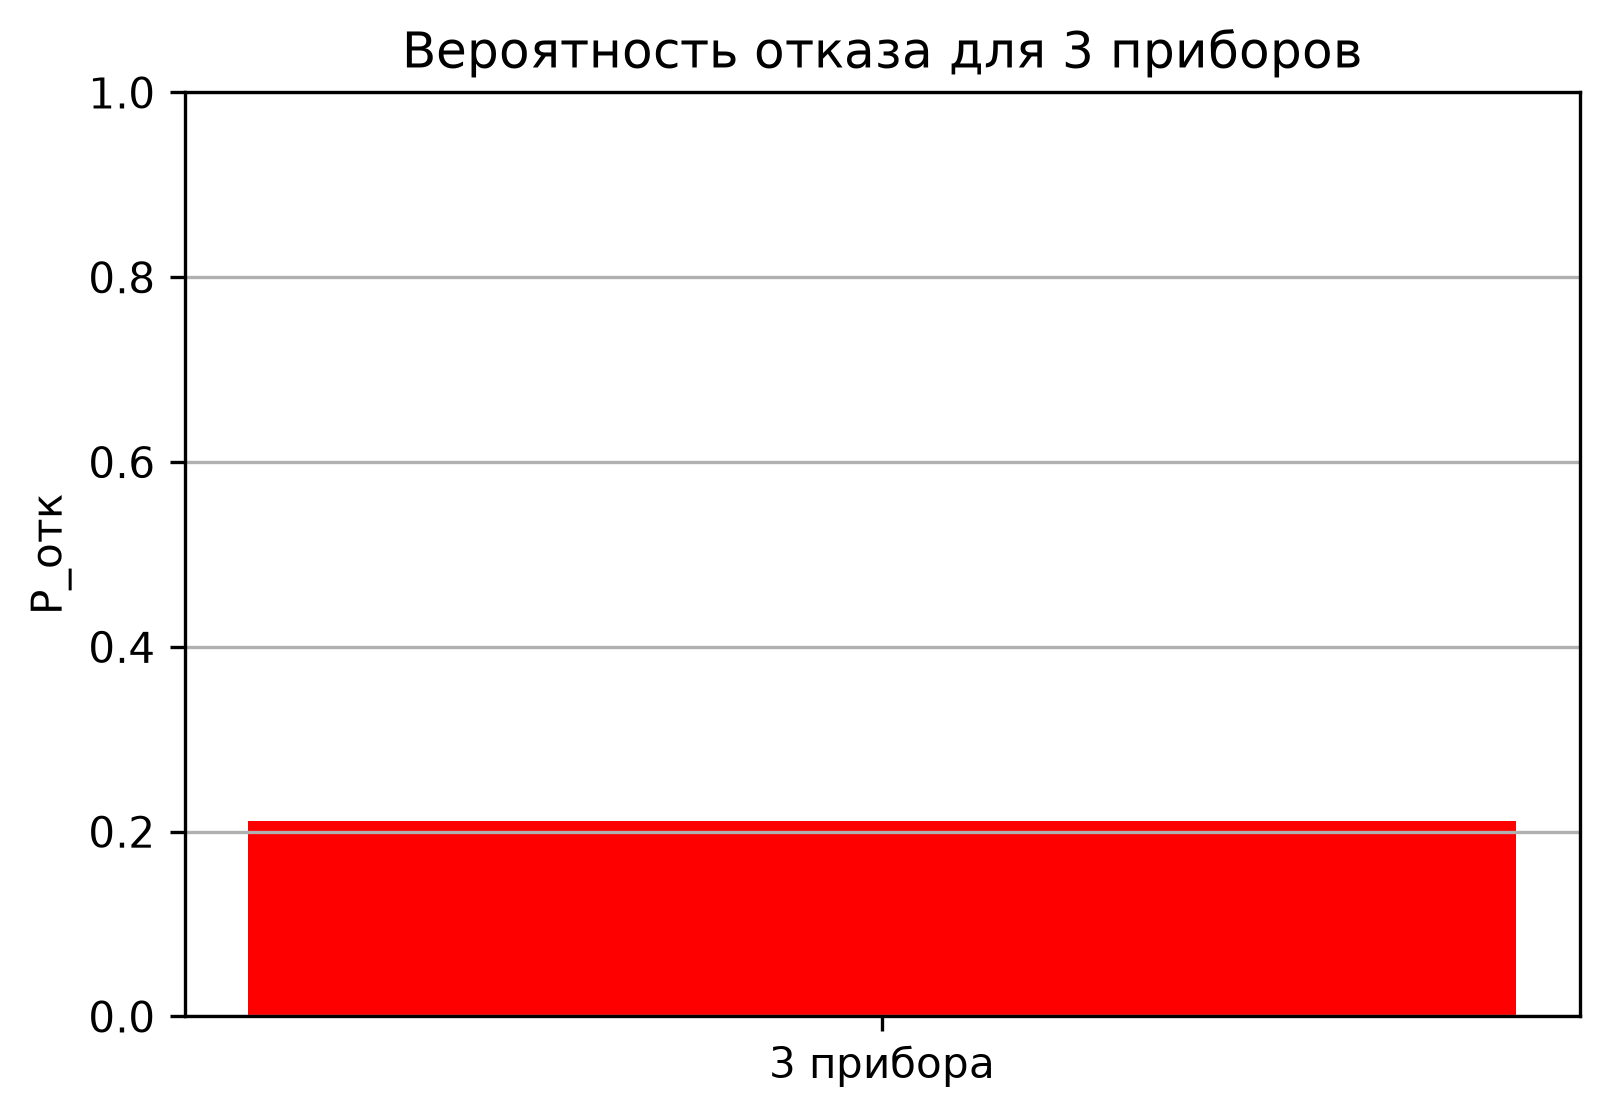
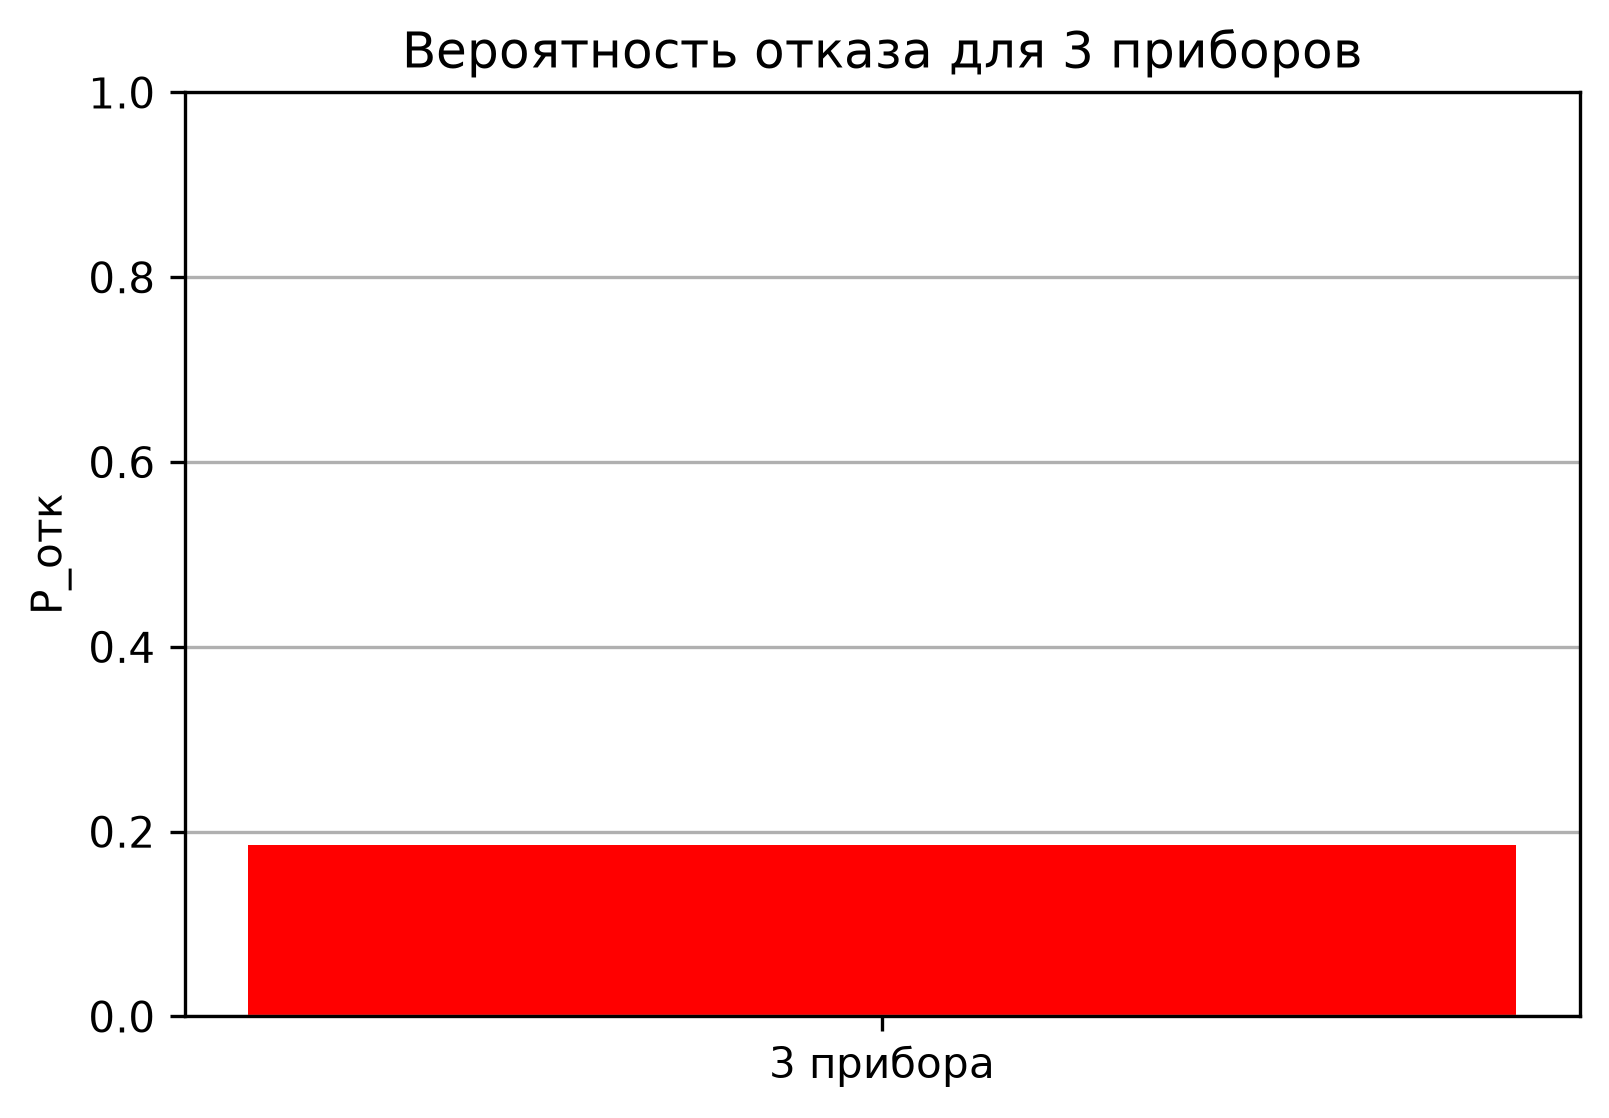
Add output tables 3.0

Changed region(s): [[0.1554, 0.7299, 0.9633, 0.7603]]

diff --git a/src/mode/auto.py b/src/mode/auto.py
@@ -64,7 +64,7 @@ def find_required_n(num_handlers, initial_n=500, max_n=200000, buffer_capacity=5
         
         p_current = sum_rej / sum_gen if sum_gen > 0 else 0.0
         
-        print(f"  N = {current_n:>6} | Сгенерировано: {sum_gen:>6} | P_отк = {p_current:.4f} ({p_current*100:.2f}%)")
+        print(f"  N = {current_n:>6} P_отк = {p_current:.4f} ({p_current*100:.2f}%)")
         
         if prev_p is not None:
             diff = abs(p_current - prev_p)
@@ -123,28 +123,13 @@ def run_final_simulation(num_handlers, num_steps, buffer_capacity=5):
     return avg_time, global_p_rej, utilization
 
 if __name__ == "__main__":
-    print("=== АВТОМАТИЧЕСКИЙ РЕЖИМ (ОР2) ===")
+    print("АВТОМАТИЧЕСКИЙ РЕЖИМ")
     
     num_handlers = 3
     print(f"Тестирование конфигурации с {num_handlers} приборами...\n")
     
     p_final, n_final = find_required_n(num_handlers=num_handlers)
     
-    print(f"Запуск ФИНАЛЬНОГО моделирования с N = {n_final}...")
     t, r, u = run_final_simulation(num_handlers=num_handlers, num_steps=n_final)
     
-    print("\nПостроение графика...")
-    output_dir = "mode/graphs"
-    if not os.path.exists(output_dir):
-        os.makedirs(output_dir)
     
-    plt.figure(figsize=(6, 4))
-    plt.bar(["3 прибора"], [r], color='r', width=0.4)
-    plt.title('Вероятность отказа для 3 приборов')
-    plt.ylabel('P_отк')
-    plt.ylim(0, 1)
-    plt.grid(axis='y')
-    plt.savefig(f"{output_dir}/graph_reject_3.png", dpi=300, bbox_inches='tight')
-    plt.show()
-    
-    print("Готово! График сохранен в папке", output_dir)
